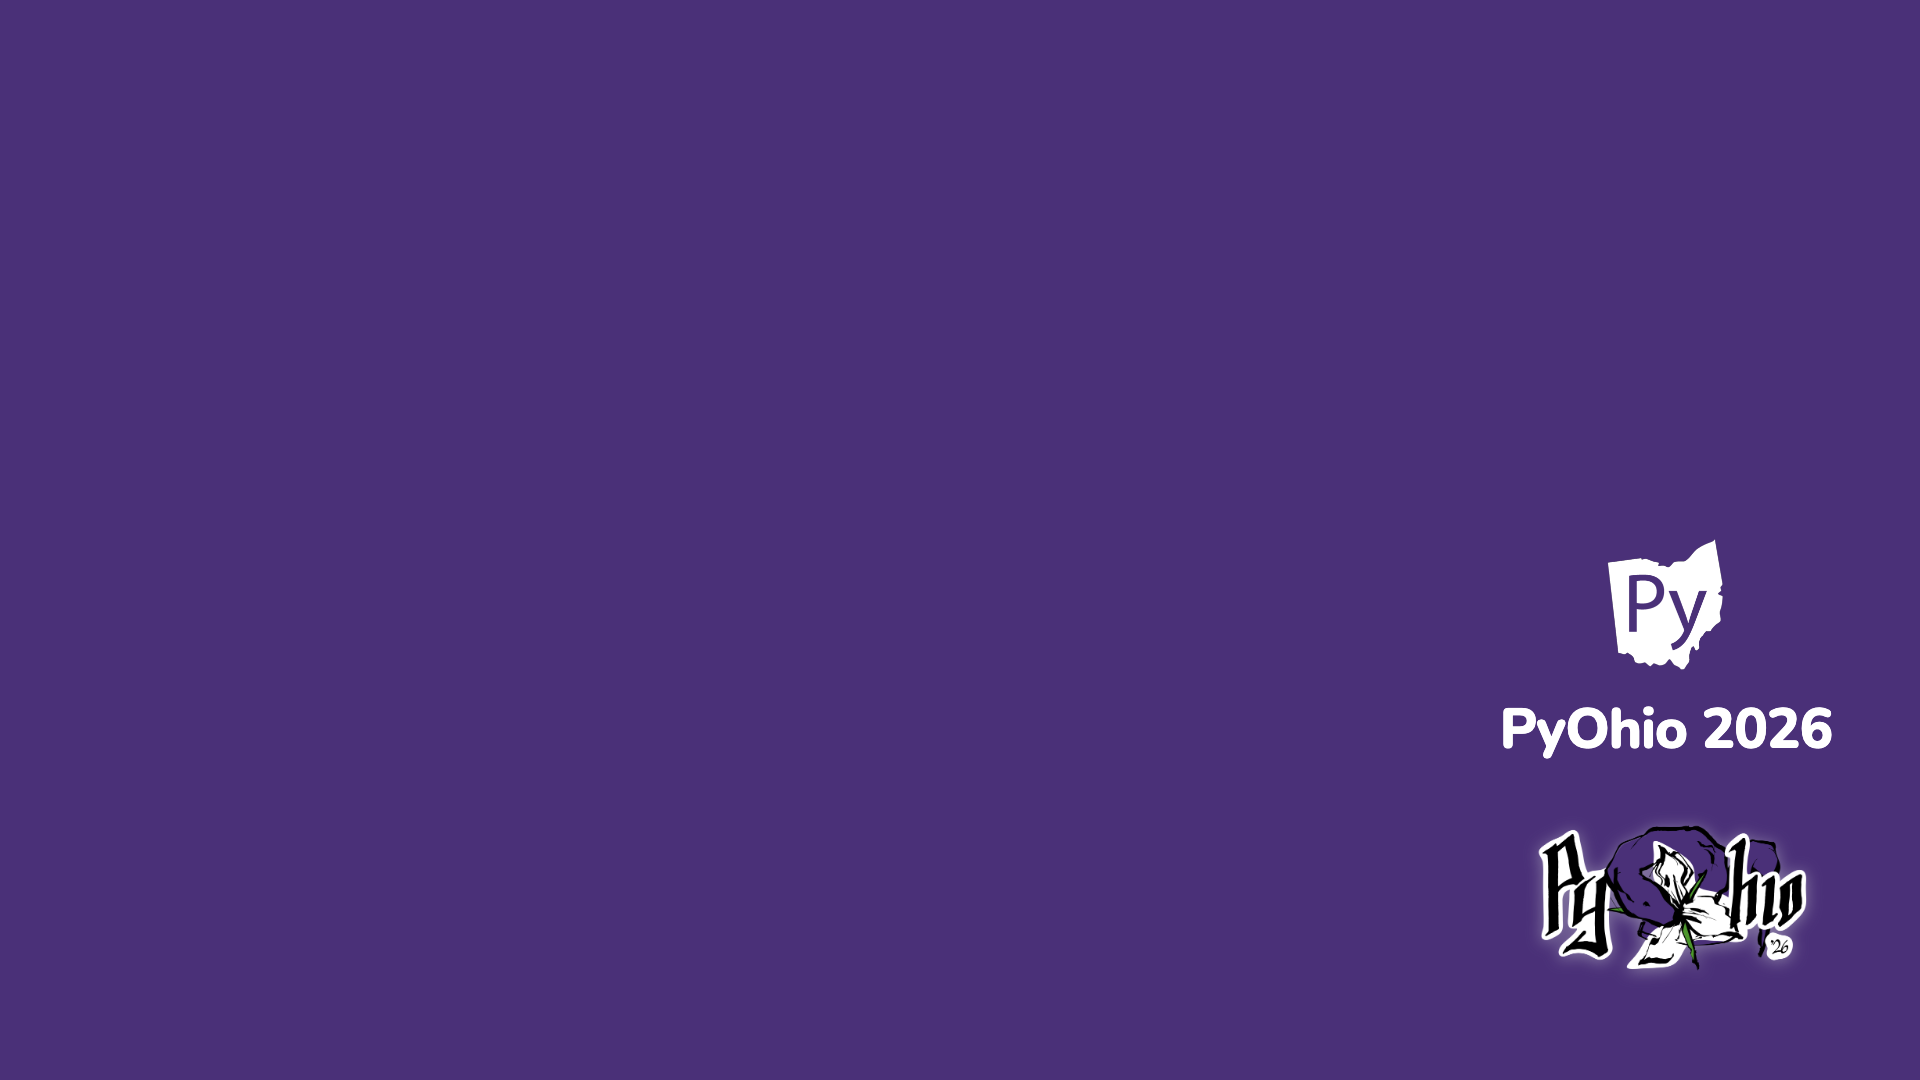
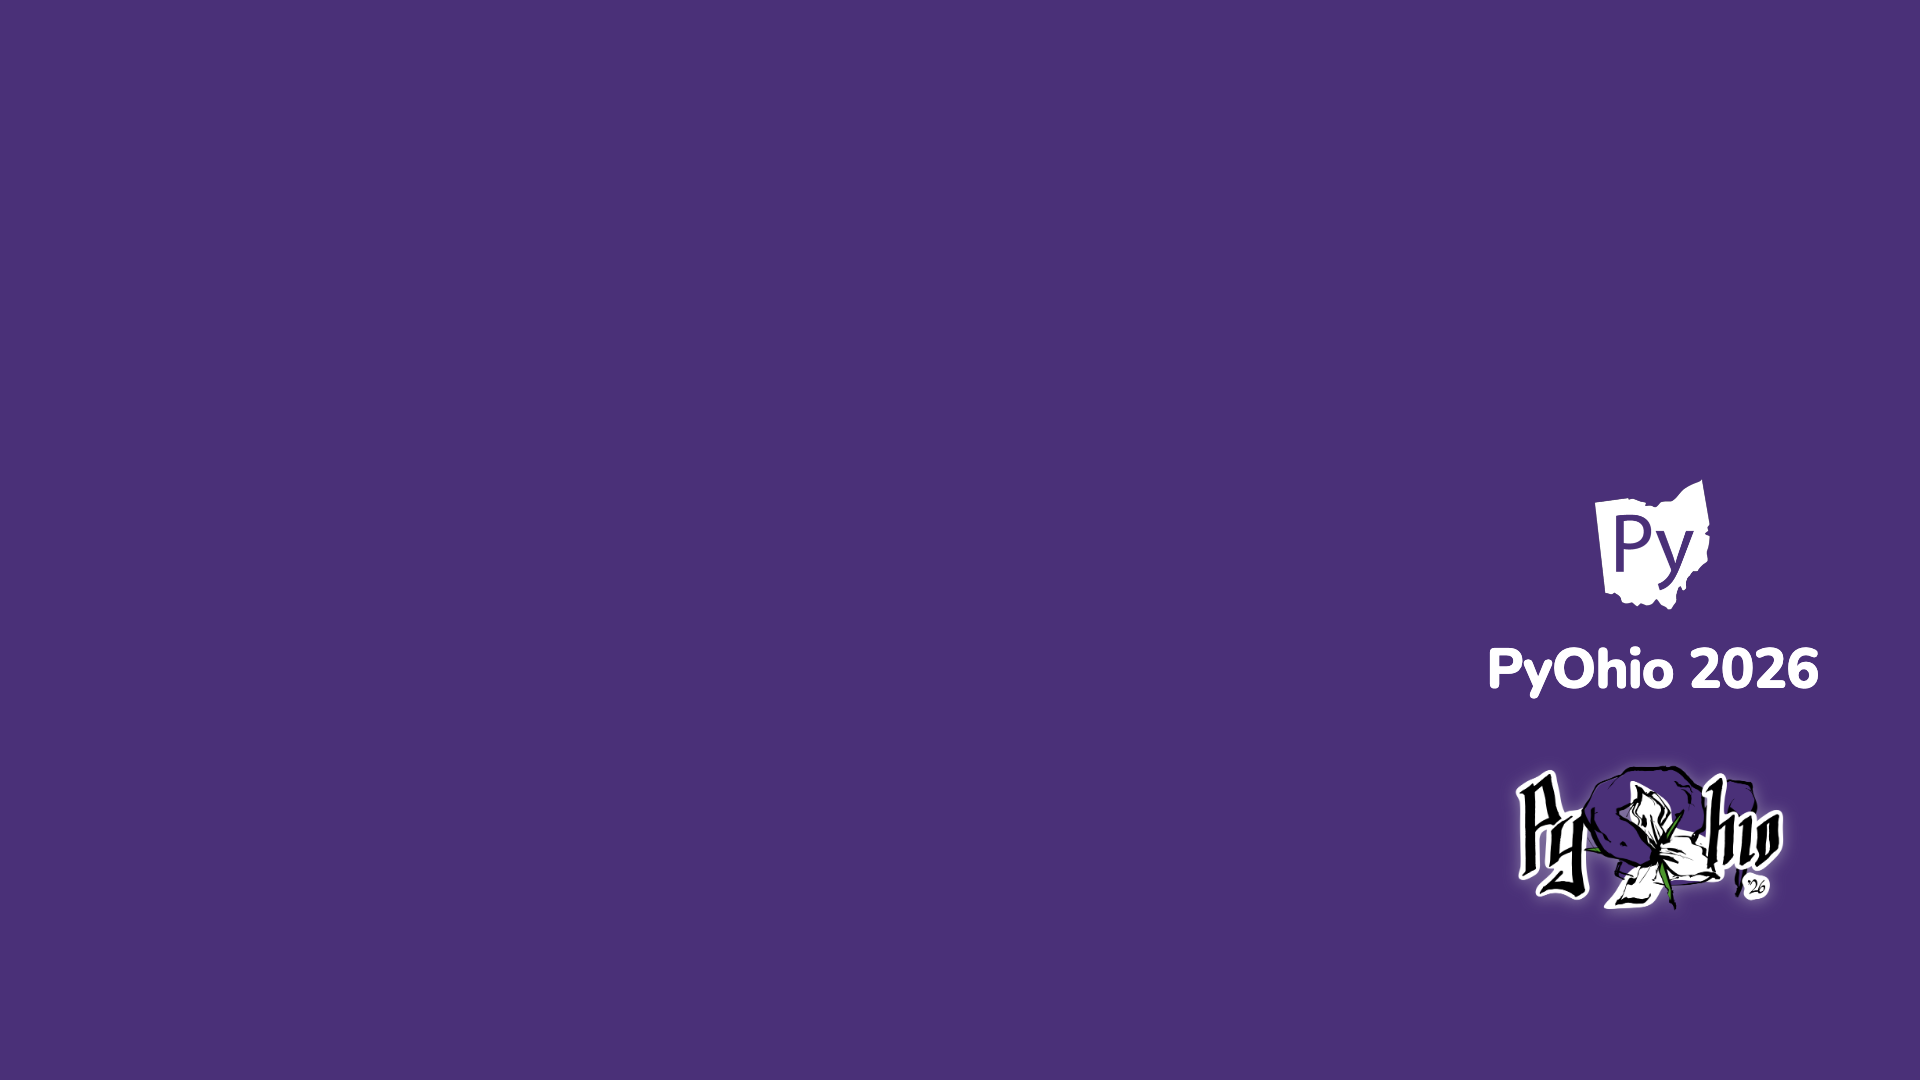
tweak frame

Changed region(s): [[0.75, 0.4278, 0.9688, 0.9167]]

diff --git a/2026/_slide-templates/video-frame.html b/2026/_slide-templates/video-frame.html
@@ -18,19 +18,22 @@
         background: #4A3078;
         position: relative;
     }
+    /* Footprint matches where the video service composites the speaker
+       headshot (a ~495px-wide box ~20px from the right edge), so the
+       branding sits centered directly beneath it. */
     .brand {
         position: absolute;
-        right: 88px;
-        bottom: 72px;
+        right: 20px;
+        bottom: 132px;
+        width: 495px;
         display: flex;
         flex-direction: column;
-        align-items: flex-end;
+        align-items: center;
         gap: 20px;
     }
     .brand .logo {
         width: 132px;
         height: 132px;
-        align-self: center;
     }
     .brand .wordmark {
         height: 220px;